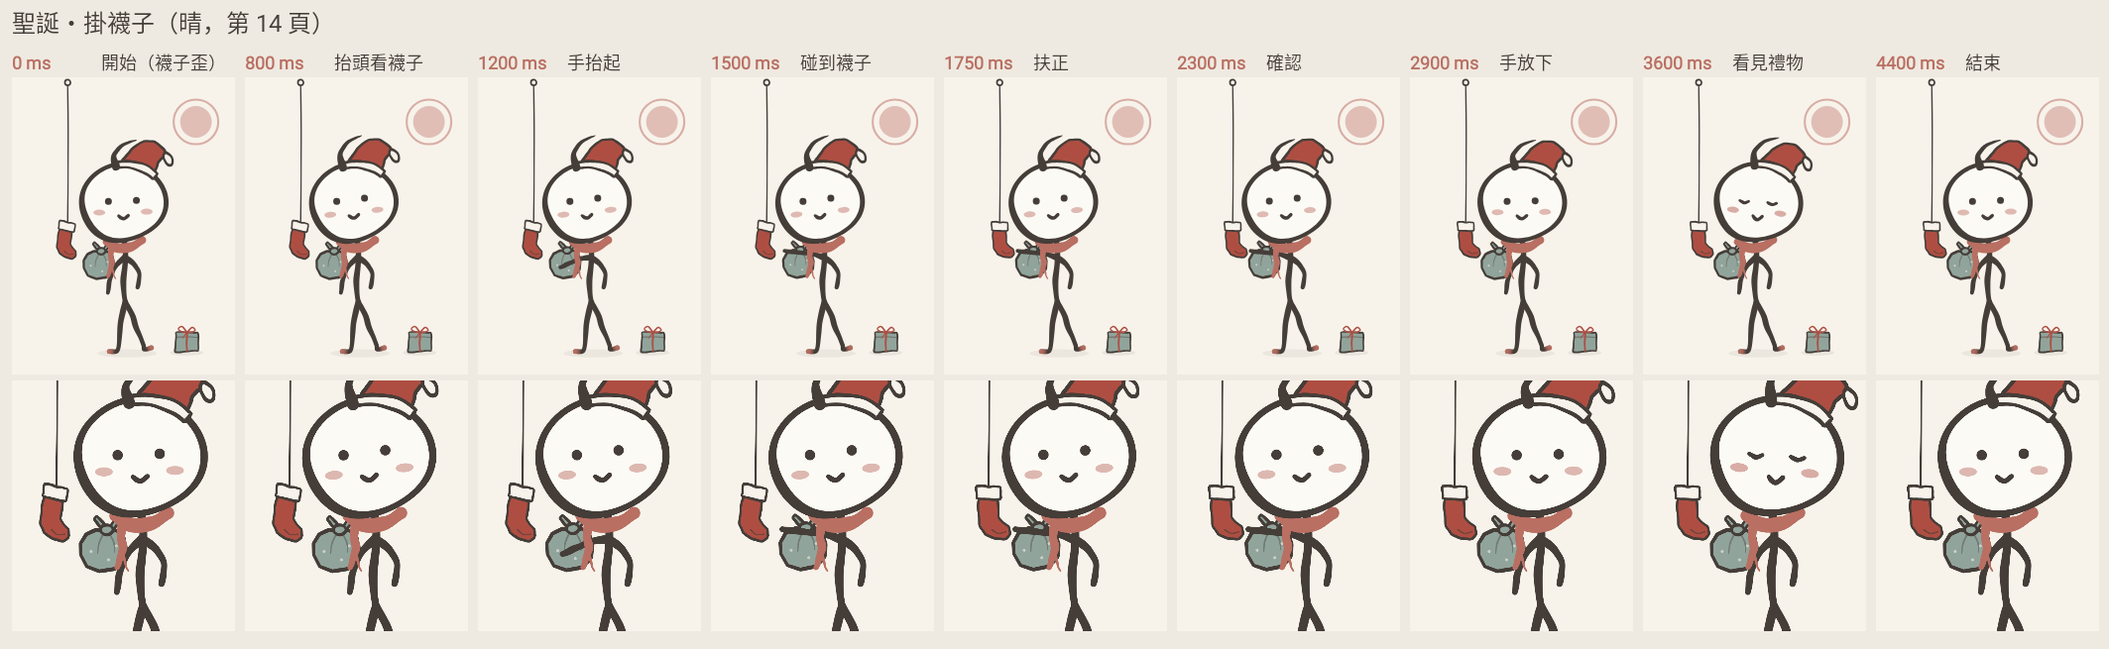
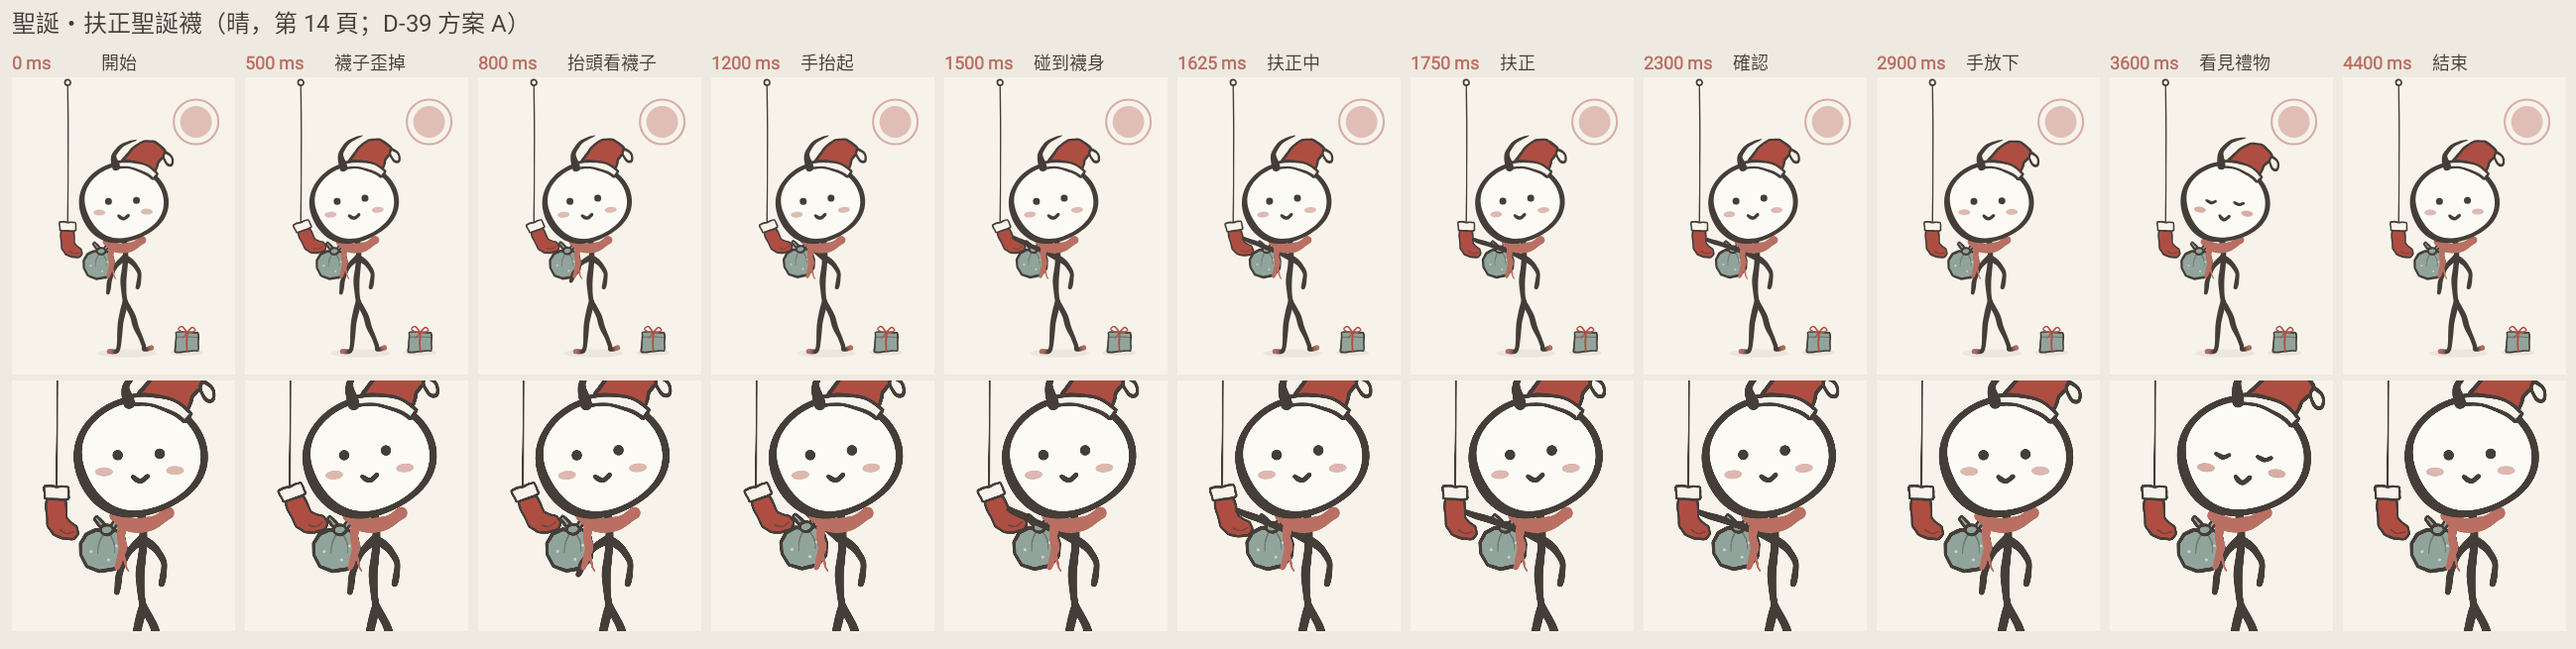
扶正聖誕襪：關鍵影格與修正前後（87ab431）

diff --git a/README.md b/README.md
@@ -33,3 +33,7 @@
 | `5a-moon-cake-rain.png`、`5b-moon-cake-snow.png` | 雨、雪看月餅：開始、低頭、捧起、看著、微笑、放回、抬頭、結束 |
 | `6-moon-bundle-pass.png` | 背包袱時月餅舉起（1000–2300 ms）與放下（3300–4400 ms），每 100 ms 一格 |
 | `7a-idle-spring.png`、`7b-idle-xmas.png`、`7c-idle-moon.png` | 三種節日待機 |
+
+## P6-3 動態審核收尾：扶正聖誕襪（D-39 方案 A，commit `87ab431`）
+- `keyframes/3-xmas-sock.png`：修正後重新輸出（取代原本的「掛襪子」拼圖）
+- `keyframes/3-xmas-sock-before-after.png`：上半修正前、下半修正後
